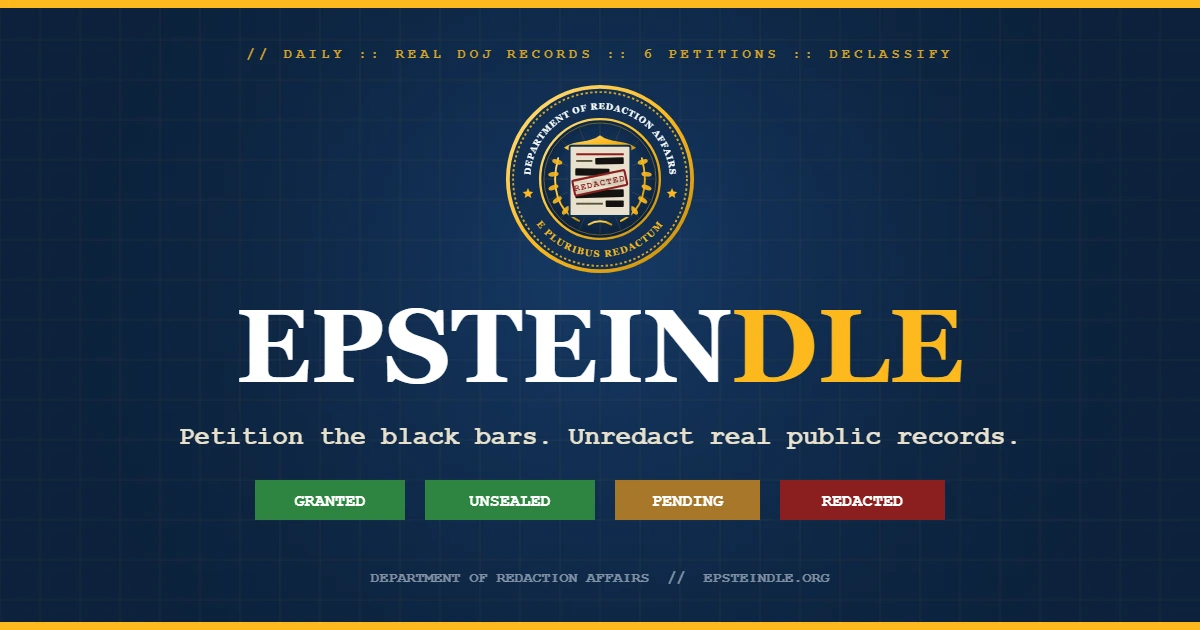
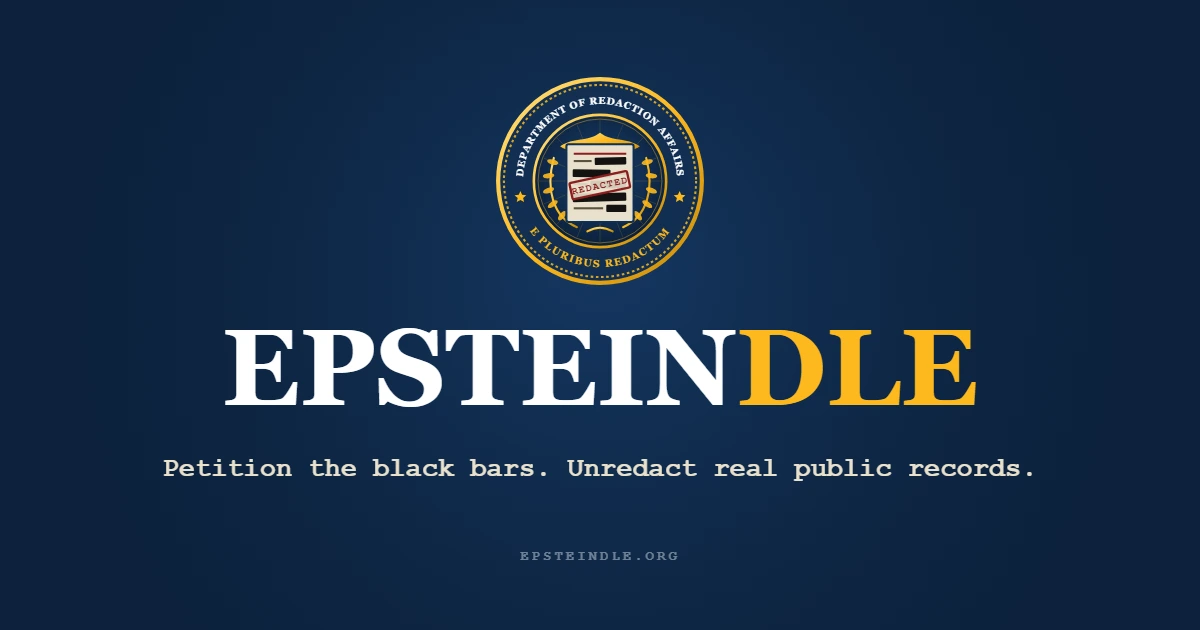
Clean up og.webp, add mobile floating console, and gate stats until completion

diff --git a/index.html b/index.html
@@ -144,6 +144,7 @@
         color: var(--ink);
         font-family: var(--sans);
         -webkit-font-smoothing: antialiased;
+        overflow-x: hidden;
       }
 
       .gov-banner {
@@ -226,6 +227,7 @@
       }
       .seal { width: 68px; height: 68px; flex: 0 0 68px; display: block; }
       .seal-sm { width: 44px; height: 44px; flex: 0 0 44px; display: block; }
+      .masthead-titles { flex: 1; min-width: 0; }
       .agency-name {
         font-family: var(--serif);
         font-size: 11px;
@@ -592,8 +594,23 @@
       .panel-top {
         display: flex;
         justify-content: space-between;
-        align-items: baseline;
+        align-items: center;
         gap: 8px;
+      }
+      .dock-toggle {
+        display: none;
+        background: #e8eaed;
+        border: 1px solid #c9cbcd;
+        border-radius: 2px;
+        padding: 3px 8px;
+        font-family: var(--mono);
+        font-size: 10px;
+        font-weight: 700;
+        color: var(--navy);
+        text-transform: uppercase;
+        letter-spacing: 0.05em;
+        cursor: pointer;
+        touch-action: manipulation;
       }
       .panel h3 {
         font-size: 12px;
@@ -904,10 +921,90 @@
         color: #8fa3bf;
         border-top: 1px solid #2a4a73;
       }
-      @media (max-width: 560px) {
-        .doc p { text-align: left; }
-        .panel { position: static; }
+      @media (max-width: 900px) {
+        .gov-banner { padding: 4px 10px; font-size: 11px; }
+        .masthead .inner { padding: 10px 12px; gap: 10px; flex-wrap: nowrap; }
+        .seal { width: 44px; height: 44px; flex: 0 0 44px; }
+        .agency-name { font-size: 9.5px; letter-spacing: 0.1em; }
+        .site-title { font-size: 17px; line-height: 1.15; }
         .masthead .search { display: none; }
+        nav.main-nav a { padding: 8px 10px; font-size: 11.5px; }
+        nav.main-nav li.nav-extra { display: none; }
+        .breadcrumb { display: none; }
+        .alert { margin-top: 8px; padding: 0 12px; }
+        .alert .box { padding: 8px 10px; font-size: 11.5px; line-height: 1.4; }
+        .page { padding: 10px 12px 320px; }
+        .page h1 { font-size: 20px; margin-bottom: 4px; }
+        .page .lede { font-size: 12.5px; margin-bottom: 10px; line-height: 1.45; }
+        .doc { padding: 14px 12px; }
+        .doc-head { margin-bottom: 10px; padding-bottom: 6px; }
+        .doc .sub { margin-bottom: 10px; font-size: 11px; }
+        .doc p { text-align: left; line-height: 2; font-size: 13.5px; margin-bottom: 10px; }
+        .panel {
+          position: fixed;
+          left: 0;
+          right: 0;
+          bottom: 0;
+          top: auto;
+          z-index: 40;
+          border: none;
+          border-top: 3px solid var(--navy);
+          box-shadow: 0 -8px 28px rgba(0, 0, 0, 0.24);
+          padding: 7px 6px calc(7px + env(safe-area-inset-bottom));
+        }
+        .panel .terminal-id,
+        .panel #barHintKey,
+        .panel .progress {
+          display: none;
+        }
+        .dock-toggle { display: inline-block; }
+        .panel-top { margin-bottom: 5px; padding: 0 4px; }
+        .bar-tabs { margin-bottom: 5px; padding-bottom: 5px; }
+        .prompt-line { min-height: 18px; margin-bottom: 5px; font-size: 11.5px; padding: 0 4px; }
+        .grid {
+          gap: 3px;
+          margin-bottom: 6px;
+          max-height: 102px;
+          overflow-y: auto;
+        }
+        .row {
+          grid-template-columns: repeat(var(--cols, 5), minmax(0, 32px));
+          gap: 3px;
+        }
+        .row.empty-future {
+          display: none;
+        }
+        .tile {
+          aspect-ratio: auto;
+          height: 30px;
+          font-size: 14px;
+        }
+        .kbd { gap: 4px; width: 100%; }
+        .kbd-row { gap: 3px; width: 100%; }
+        .key {
+          flex: 1 1 0;
+          min-width: 0;
+          max-width: none;
+          height: 40px;
+          padding: 0;
+          font-size: 13px;
+        }
+        .key.wide {
+          flex: 1.5 1 0;
+          max-width: none;
+          font-size: 10px;
+        }
+        .console-links {
+          display: none;
+        }
+        .panel.minimized .panel-body {
+          display: none;
+        }
+        .panel.minimized .bar-tabs {
+          margin-bottom: 0;
+          padding-bottom: 0;
+          border-bottom: none;
+        }
       }
     </style>
   </head>
@@ -958,7 +1055,7 @@
     <div class="masthead">
       <div class="inner">
         <img class="seal" src="seal.svg?v=2" alt="Department of Redaction Affairs" />
-        <div>
+        <div class="masthead-titles">
           <div class="agency-name">Department of Redaction Affairs</div>
           <div class="site-title">Office of Interactive Declassification <span class="tld">· epsteindle.org</span></div>
         </div>
@@ -973,10 +1070,10 @@
       <ul>
         <li><a id="navDaily" class="active">Daily Docket</a></li>
         <li><a id="navRandom">Pull Random Record</a></li>
-        <li><a id="navStats">Petition Record</a></li>
-        <li><a href="#" onclick="return denied(event)">Public Records</a></li>
-        <li><a href="#" onclick="return denied(event)">FOIA Requests</a></li>
-        <li><a href="#" onclick="return denied(event)">Inspector General</a></li>
+        <li id="navStatsLi" style="display:none;"><a id="navStats">Petition Record</a></li>
+        <li class="nav-extra"><a href="#" onclick="return denied(event)">Public Records</a></li>
+        <li class="nav-extra"><a href="#" onclick="return denied(event)">FOIA Requests</a></li>
+        <li class="nav-extra"><a href="#" onclick="return denied(event)">Inspector General</a></li>
       </ul>
     </nav>
 
@@ -1016,21 +1113,24 @@
           </div>
         </section>
 
-        <aside class="panel">
+        <aside class="panel" id="consolePanel">
           <div class="panel-top">
             <h3>Petition Console</h3>
             <span style="font-size:10px;color:#5b616b;font-family:var(--mono);" id="barHintKey">TAB TO SWITCH</span>
+            <button class="dock-toggle" id="dockToggle" type="button">▾ Hide</button>
           </div>
           <div class="terminal-id">TERMINAL 7-G · FORM ODR-88 (REV. 07/2025)</div>
           <div class="bar-tabs" id="barTabs"></div>
-          <div class="prompt-line" id="promptLine"></div>
-          <div class="grid" id="grid"></div>
-          <div class="kbd" id="kbd"></div>
-          <div class="progress" id="progress"></div>
-          <div class="console-links">
-            <button class="stats-link" id="statsBtn" type="button">view petition record</button>
-            <button class="stats-link" id="todayLinkBtn" type="button" style="display:none;">today's docket</button>
-            <button class="stats-link" id="randomLinkBtn" type="button">pull random record</button>
+          <div class="panel-body">
+            <div class="prompt-line" id="promptLine"></div>
+            <div class="grid" id="grid"></div>
+            <div class="kbd" id="kbd"></div>
+            <div class="progress" id="progress"></div>
+            <div class="console-links">
+              <button class="stats-link" id="statsBtn" type="button" style="display:none;">view petition record</button>
+              <button class="stats-link" id="todayLinkBtn" type="button" style="display:none;">today's docket</button>
+              <button class="stats-link" id="randomLinkBtn" type="button">pull random record</button>
+            </div>
           </div>
         </aside>
       </div>
@@ -1089,7 +1189,7 @@
           <ul>
             <li><a href="#" onclick="return denied(event)">Reading Room</a></li>
             <li><a id="footRandom">Random Backlog Record</a></li>
-            <li><a id="footStats">Mandatory Review Stats</a></li>
+            <li id="footStatsLi" style="display:none;"><a id="footStats">Mandatory Review Stats</a></li>
             <li><a href="#" onclick="return denied(event)">Black Binder, Phase 1</a></li>
           </ul>
         </div>
@@ -1356,7 +1456,7 @@
             }
             const idx = state.spans.length;
             b.className = "bar";
-            b.addEventListener("click", () => selectSpan(idx));
+            b.addEventListener("click", () => selectSpan(idx, true));
             p.appendChild(b);
             state.spans.push({
               idx,
@@ -1416,7 +1516,8 @@
           startIdx = firstPend !== -1 ? firstPend : 0;
         }
 
-        selectSpan(startIdx);
+        setDockMinimized(allDone);
+        selectSpan(startIdx, false);
         if (allDone) finish(false);
       }
 
@@ -1469,13 +1570,42 @@
 
       const currentSpan = () => state.spans[state.activeIdx] || null;
 
-      function selectSpan(i) {
+      function setDockMinimized(min) {
+        const panel = $("consolePanel");
+        const btn = $("dockToggle");
+        if (!panel || !btn) return;
+        panel.classList.toggle("minimized", !!min);
+        btn.textContent = min ? "▴ Keyboard" : "▾ Hide";
+      }
+
+      $("dockToggle").addEventListener("click", () => {
+        const panel = $("consolePanel");
+        setDockMinimized(!panel.classList.contains("minimized"));
+      });
+
+      function scrollActiveBarIntoView() {
+        if (window.innerWidth > 900) return;
+        const s = currentSpan();
+        const panel = $("consolePanel");
+        if (!s || !s.el || !panel || panel.classList.contains("minimized")) return;
+        const rect = s.el.getBoundingClientRect();
+        const panelTop = panel.getBoundingClientRect().top;
+        const availCenter = panelTop * 0.45;
+        if (rect.bottom > panelTop - 16 || rect.top < 16) {
+          const targetY = window.scrollY + rect.top - Math.max(48, availCenter);
+          window.scrollTo({ top: Math.max(0, targetY), behavior: "smooth" });
+        }
+      }
+
+      function selectSpan(i, userTriggered = true) {
         if (!state.spans[i] || state.busy) return;
+        if (userTriggered) setDockMinimized(false);
         state.activeIdx = i;
         state.spans.forEach((s) => paintDocBar(s));
         renderBarTabs();
         renderConsole();
         persist();
+        if (userTriggered) setTimeout(scrollActiveBarIntoView, 30);
       }
 
       function stepSpan(dir) {
@@ -1563,6 +1693,7 @@
           const submitted = s.guesses[r];
           const ev = s.evals[r];
           const isCurrentRow = s.status === "pending" && r === s.guesses.length;
+          if (!submitted && !isCurrentRow) row.classList.add("empty-future");
 
           for (let c = 0; c < len; c++) {
             const t = document.createElement("div");
@@ -1584,6 +1715,7 @@
           }
           g.appendChild(row);
         }
+        g.scrollTop = g.scrollHeight;
       }
 
       const ROWS = ["QWERTYUIOP", "ASDFGHJKL", "ZXCVBNM"];
@@ -1621,8 +1753,11 @@
       }
 
       function paintActiveRow(s) {
-        const row = $("grid").children[s.guesses.length];
+        const g = $("grid");
+        const row = g.children[s.guesses.length];
         if (!row) return;
+        const revealedRow = row.classList.contains("empty-future");
+        row.classList.remove("empty-future");
         [...row.children].forEach((t, i) => {
           t.className = "tile";
           if (s.draft[i]) {
@@ -1636,6 +1771,7 @@
           }
           if (i === s.draft.length) t.classList.add("cursor");
         });
+        if (revealedRow) g.scrollTop = g.scrollHeight;
         paintDocBar(s);
       }
 
@@ -1743,11 +1879,12 @@
 
           if (targetNext === -1) {
             state.busy = false;
+            setDockMinimized(true);
             finish(true);
           } else {
             setTimeout(() => {
               state.busy = false;
-              selectSpan(targetNext);
+              selectSpan(targetNext, true);
             }, 650);
           }
         }, settle);
@@ -1770,6 +1907,18 @@
         }, 1400);
       }
 
+      function isRecordDone() {
+        return state.spans.length > 0 && state.spans.every((s) => s.status !== "pending");
+      }
+
+      function updateStatsAccess() {
+        const done = isRecordDone();
+        $("statsBtn").style.display = done ? "" : "none";
+        $("navStatsLi").style.display = done ? "" : "none";
+        $("footStatsLi").style.display = done ? "" : "none";
+        if (!done) $("statsModal").classList.remove("show");
+      }
+
       function updateProgress() {
         const rev = state.spans.filter((s) => s.status === "revealed").length;
         const den = state.spans.filter((s) => s.status === "denied").length;
@@ -1777,6 +1926,7 @@
         $("progress").innerHTML =
           `<span><b>${rev}</b> unredacted · <b>${den}</b> sealed · ${state.spans.length} bars</span>` +
           `<span><b>${totalTries}</b> petitions</span>`;
+        updateStatsAccess();
       }
 
       function recordStats(rev, total) {
@@ -1860,7 +2010,7 @@
             `<div class="eb-word">${s.word}</div>` +
             `<div class="eb-trail">${barTrail(s)}</div>`;
           card.addEventListener("click", () => {
-            selectSpan(idx);
+            selectSpan(idx, true);
             $("doc").scrollIntoView({ behavior: "smooth", block: "nearest" });
           });
           bd.appendChild(card);
@@ -1886,6 +2036,7 @@
       }
 
       function openStats() {
+        if (!isRecordDone()) return;
         renderStats();
         $("statsModal").classList.add("show");
       }
